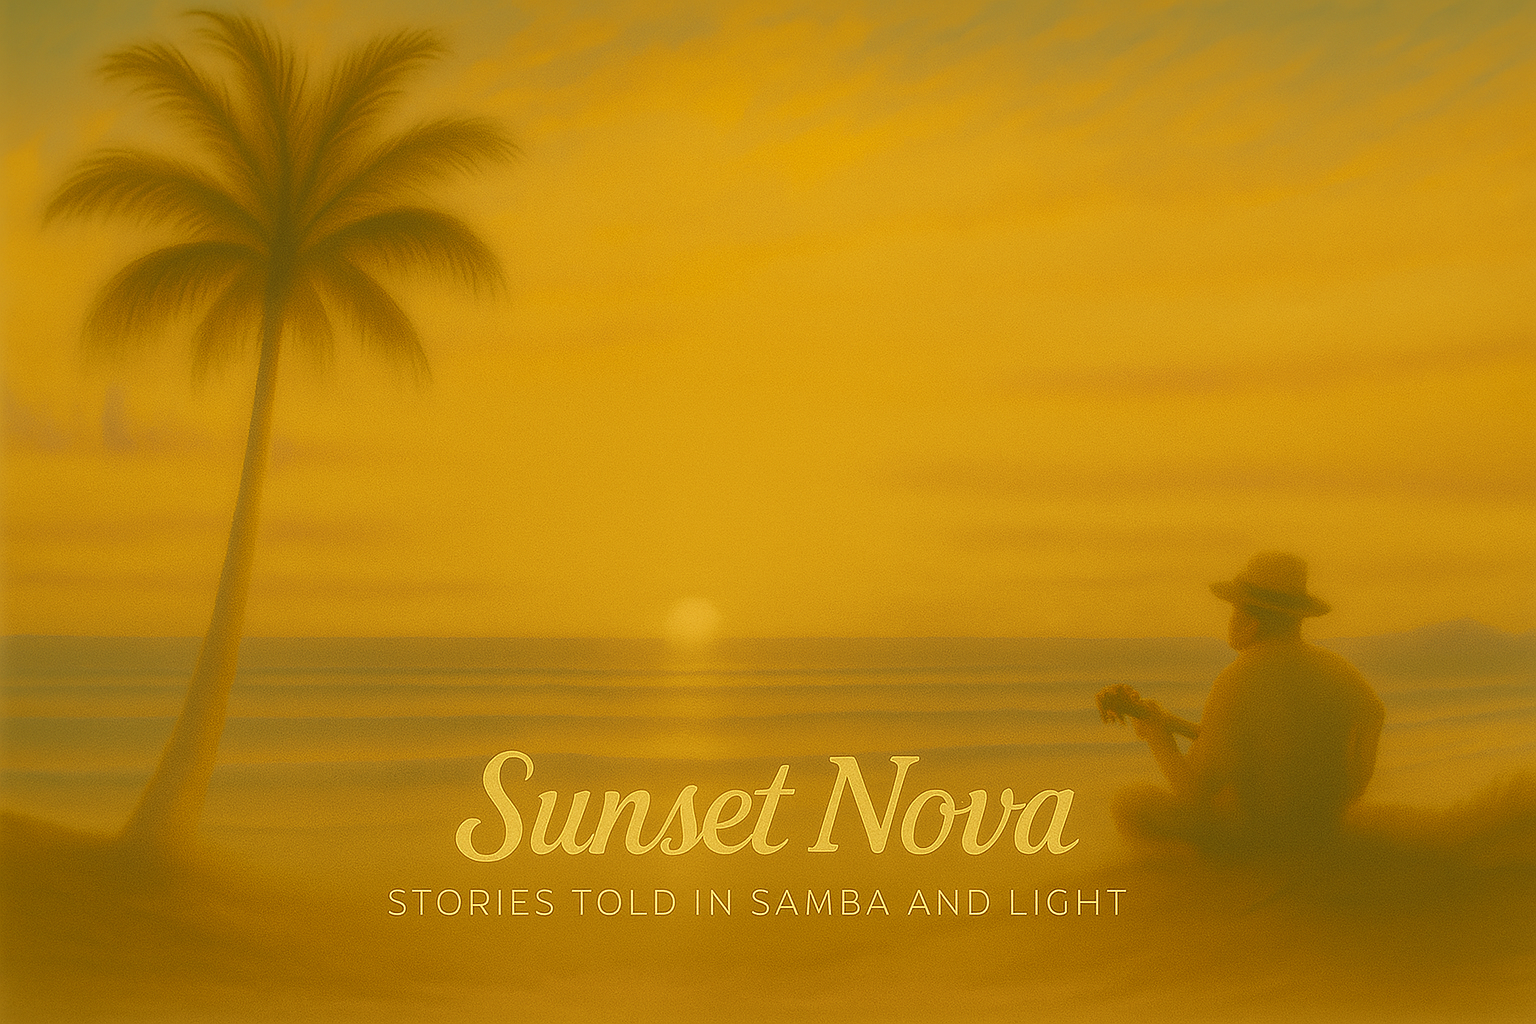
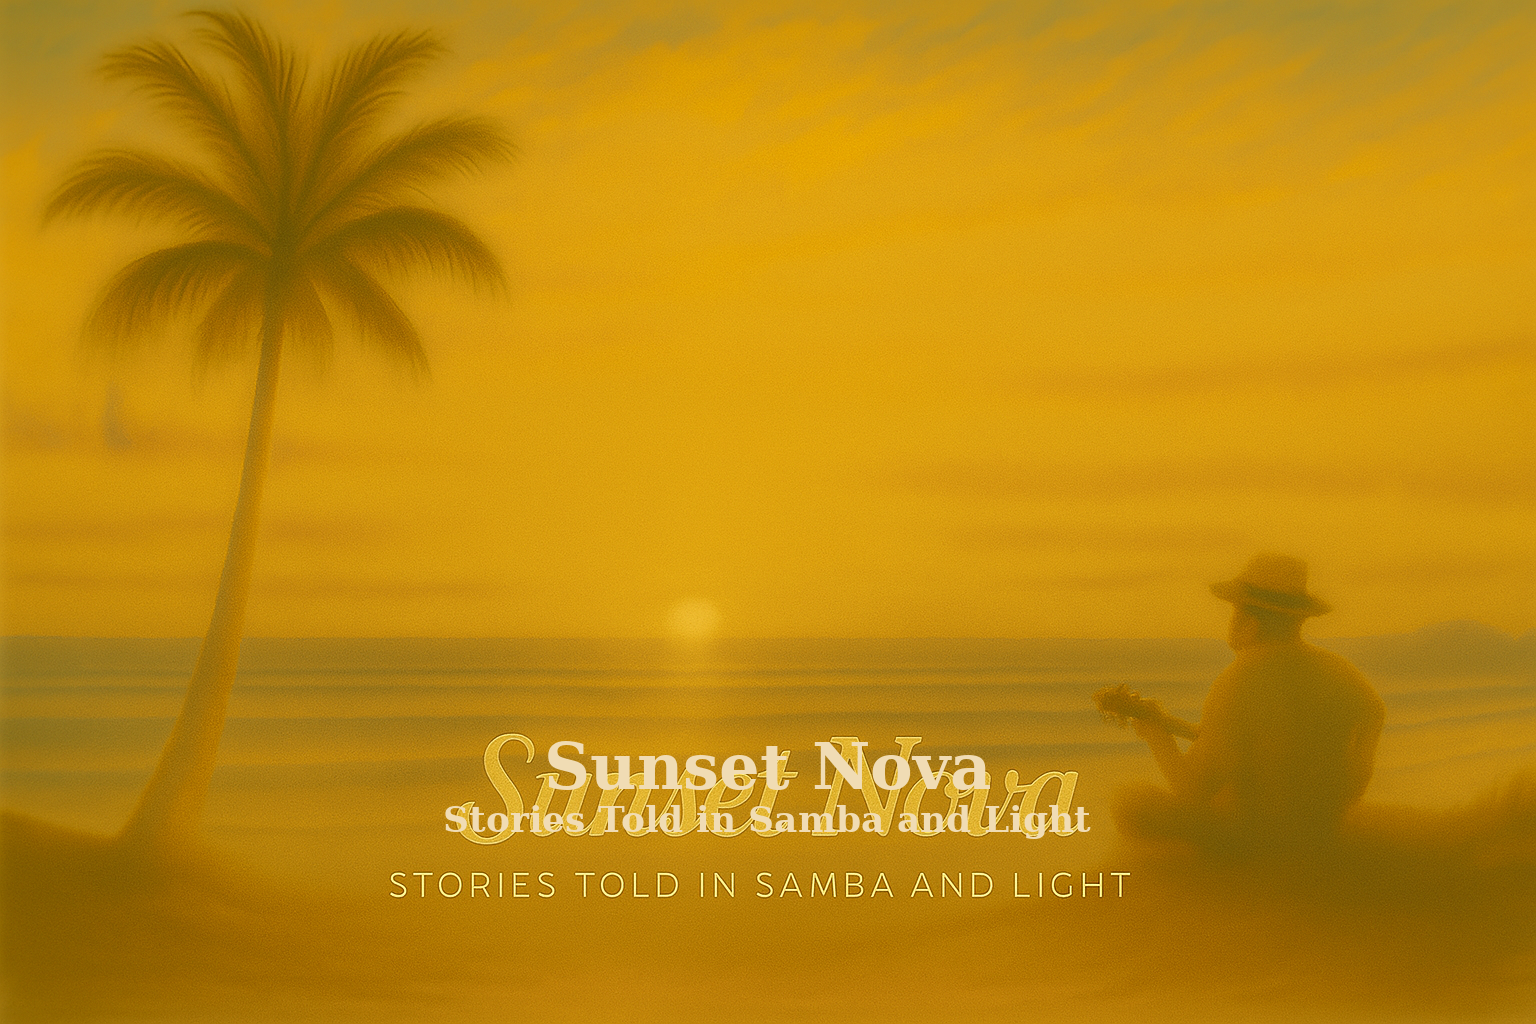
Add files via upload

Changed region(s): [[0.25, 0.7188, 0.75, 0.9062]]

diff --git a/music.html b/music.html
@@ -1,7 +1,25 @@
 <!DOCTYPE html>
 <!-- saved from url=(0044)https://ambertunesmusic.github.io/music.html -->
-<html lang="en"><head><meta http-equiv="Content-Type" content="text/html; charset=UTF-8"><style data-merge-styles="true"></style>
-  <style data-merge-styles="true"></style><style data-merge-styles="true"></style>
+<html lang="en"><head><meta http-equiv="Content-Type" content="text/html; charset=UTF-8"><style data-merge-styles="true">    .subtitle {
+      font-size: 1.1em;
+      color: #ccc;
+      font-style: italic;
+      margin-top: 4px;
+    }
+</style>
+  <style data-merge-styles="true">    .subtitle {
+      font-size: 1.1em;
+      color: #ccc;
+      font-style: italic;
+      margin-top: 4px;
+    }
+</style><style data-merge-styles="true">    .subtitle {
+      font-size: 1.1em;
+      color: #ccc;
+      font-style: italic;
+      margin-top: 4px;
+    }
+</style>
   <meta name="viewport" content="width=device-width, initial-scale=1">
   <title>Music – Maxim Novak</title>
   <link rel="icon" type="image/x-icon" href="https://ambertunesmusic.github.io/favicon.ico">
@@ -47,6 +65,7 @@
       margin-bottom: 20px;
     }
     h2 {
+      margin-bottom: 0px;
       font-size: 2em;
       margin-bottom: 10px;
       color: #cbdfff;
@@ -81,7 +100,13 @@
     footer img {
       vertical-align: middle;
     }
-  </style>
+      .subtitle {
+      font-size: 1.1em;
+      color: #ccc;
+      font-style: italic;
+      margin-top: 4px;
+    }
+</style>
 </head>
 <body>
   <nav>
@@ -116,6 +141,7 @@
 <div class="section">
   <img src="sunset_nova_banner.png" alt="Sunset Nova Cover" />
   <h2>Sunset Nova</h2>
+  <p class="subtitle">Stories Told in Samba and Light</p>
   <p class="description">A breezy collection of mellow bossa nova instrumentals.<br>Sunset light, soft rhythms, and tropical nostalgia echo through these laid-back tunes.</p>
 
   <div class="track"><strong>Invitation To Bossa Nova</strong><br><audio controls src="invitation_to_bossa_nova.mp3"></audio></div>
